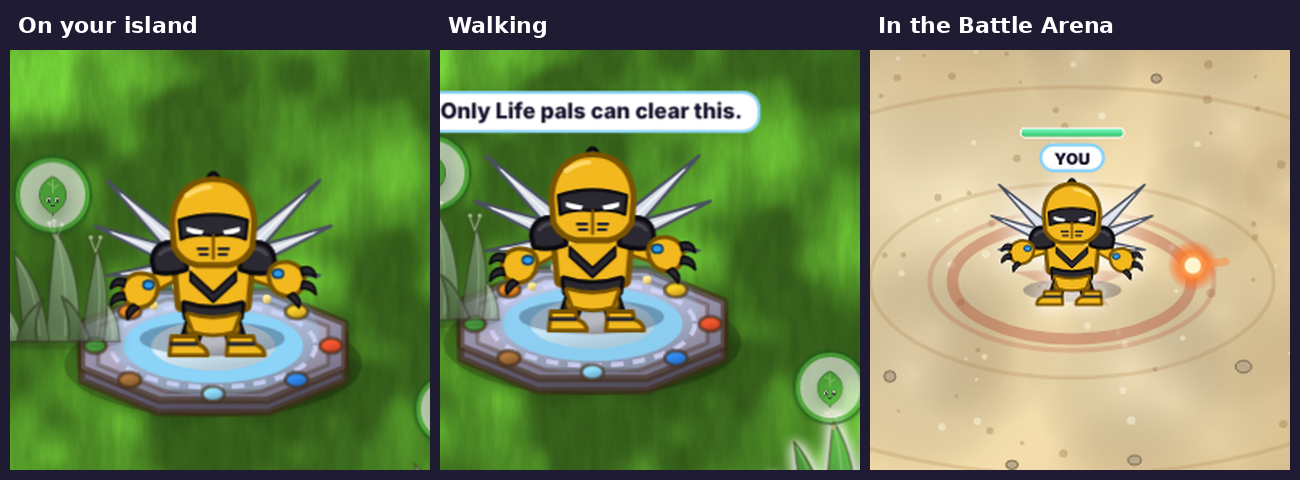
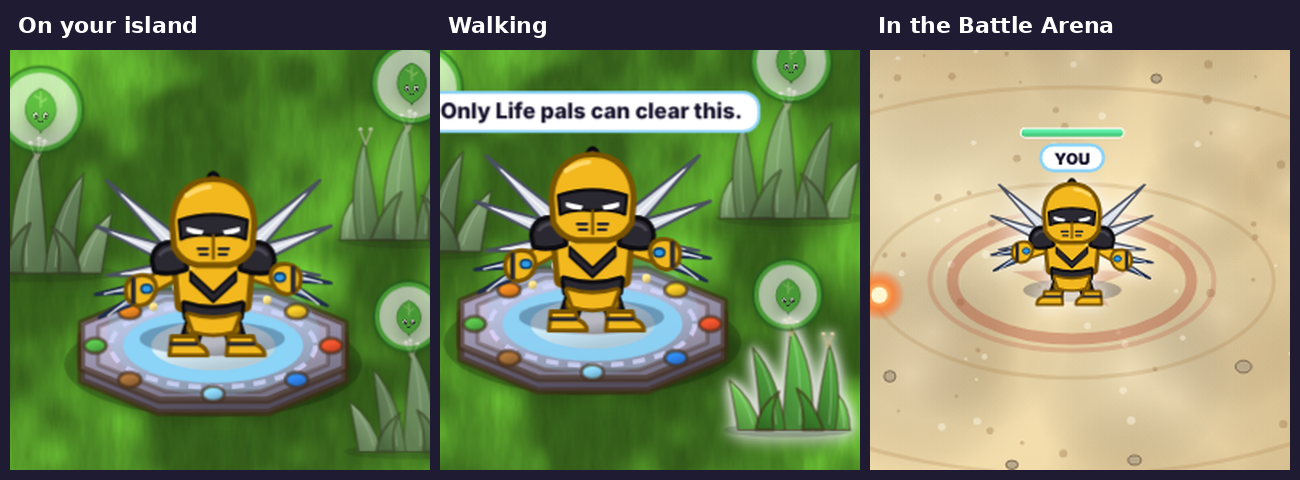
Preview: winged warrior with two blades out of each glove
Claude-Session: https://claude.ai/code/session_01VLdLc5ictpYJybhtPWKJ3B

diff --git a/src/previews/sentinel.js b/src/previews/sentinel.js
@@ -1,14 +1,17 @@
 /* Winged warrior (no name yet): the owner's armoured warrior in yellow and black: a knight helmet with a black visor and white eye
    slits, a black crest, a yellow breastplate with a black chevron, black shoulder guards, metal blade-feather wings, solid armour
-   plates (no stripes), and big yellow claw gauntlets with blue gems (Air, melee, Giant). (preview only) */
-var SN = { Y: '#f2b81e', YD: '#7a5400', YL: '#ffd968', K: '#2a2830', KD: '#0c0b10', KL: '#4a4652', BL: '#2f9be8', BLD: '#0e3f6a', W: '#d9dee8', WD: '#4a5060' };
-function snClaw(x, y, m){      /* a big yellow claw gauntlet with black claw tips and a blue gem; m = 1 claws right, -1 left */
+   plates (no stripes), and yellow gauntlets with blue gems and two sharp blades sticking out of each (Air, melee, Giant). (preview only) */
+var SN = { Y: '#f2b81e', YD: '#7a5400', YL: '#ffd968', K: '#2a2830', KD: '#0c0b10', KL: '#4a4652', BL: '#2f9be8', BLD: '#0e3f6a', W: '#d9dee8', WD: '#4a5060', ST: '#8fa8d0', STD: '#1e2c4a' };
+function snClaw(x, y, m){      /* a yellow gauntlet with two long sharp blades sticking out past the knuckles; m = 1 blades right, -1 left */
   var S = SN; function X(v){ return x + v * m; }
-  return '<path d="M' + X(-9) + ' ' + (y - 4) + 'Q' + X(-8) + ' ' + (y - 12) + ' ' + X(2) + ' ' + (y - 11) + 'Q' + X(10) + ' ' + (y - 9) + ' ' + X(10) + ' ' + (y - 1) + 'Q' + X(9) + ' ' + (y + 6) + ' ' + X(1) + ' ' + (y + 7) + 'Q' + X(-8) + ' ' + (y + 6) + ' ' + X(-9) + ' ' + (y - 4) + 'Z" fill="' + S.Y + '" stroke="' + S.YD + '" stroke-width="2.2" stroke-linejoin="round"/>' +
-    '<ellipse cx="' + X(-4) + '" cy="' + (y - 5) + '" rx="2.8" ry="2.2" fill="' + S.BL + '" stroke="' + S.BLD + '" stroke-width="1.2"/>' +
-    '<path d="M' + X(8) + ' ' + (y - 8) + 'Q' + X(15) + ' ' + (y - 10) + ' ' + X(16) + ' ' + (y - 3) + 'Q' + X(12) + ' ' + (y - 6) + ' ' + X(9) + ' ' + (y - 4) + 'Z' +
-      'M' + X(9) + ' ' + (y - 1) + 'Q' + X(16) + ' ' + (y - 1) + ' ' + X(16) + ' ' + (y + 6) + 'Q' + X(12) + ' ' + (y + 2) + ' ' + X(8) + ' ' + (y + 3) + 'Z' +
-      'M' + X(4) + ' ' + (y + 5) + 'Q' + X(9) + ' ' + (y + 8) + ' ' + X(7) + ' ' + (y + 13) + 'Q' + X(4) + ' ' + (y + 9) + ' ' + X(1) + ' ' + (y + 7) + 'Z" fill="' + S.K + '" stroke="' + S.KD + '" stroke-width="1.2" stroke-linejoin="round"/>';
+  function blade(y0, len, rise){
+    return '<path d="M' + X(4) + ' ' + (y0 - 2.2) + 'L' + X(4 + len) + ' ' + (y0 - rise) + 'L' + X(4) + ' ' + (y0 + 2.2) + 'Z" fill="' + S.ST + '" stroke="' + S.STD + '" stroke-width="1.6" stroke-linejoin="round"/>' +
+      '<path d="M' + X(6) + ' ' + (y0 - 0.6) + 'L' + X(2 + len * 0.85) + ' ' + (y0 - rise * 0.9) + '" stroke="#fff" stroke-width="1" stroke-linecap="round" stroke-opacity=".85"/>';
+  }
+  return blade(y - 3, 20, -3) + blade(y + 3, 18, -9) +
+    '<path d="M' + X(-8) + ' ' + (y - 4) + 'Q' + X(-7) + ' ' + (y - 11) + ' ' + X(1) + ' ' + (y - 10) + 'Q' + X(8) + ' ' + (y - 9) + ' ' + X(8) + ' ' + (y - 2) + 'Q' + X(8) + ' ' + (y + 5) + ' ' + X(1) + ' ' + (y + 6) + 'Q' + X(-7) + ' ' + (y + 5) + ' ' + X(-8) + ' ' + (y - 4) + 'Z" fill="' + S.Y + '" stroke="' + S.YD + '" stroke-width="2.2" stroke-linejoin="round"/>' +
+    '<path d="M' + X(4) + ' ' + (y - 8) + 'V' + (y + 4) + '" stroke="' + S.K + '" stroke-width="2.6" stroke-linecap="round"/>' +
+    '<ellipse cx="' + X(-3) + '" cy="' + (y - 3) + '" rx="2.8" ry="2.2" fill="' + S.BL + '" stroke="' + S.BLD + '" stroke-width="1.2"/>';
 }
 function snArt(){
   var S = SN;
@@ -60,7 +63,7 @@ function snBack(c){
     '<g><g class="pump pR">' + arm(70, 60, 82, 64) + '</g></g></svg>';
 }
 function snFront(c){
-  /* the front claw gauntlet sits in the weapon group so it slashes when he hits */
+  /* the front gauntlet and its blades sit in the weapon group so they slash when he hits */
   return '<svg class="limbs" viewBox="0 0 100 100" aria-hidden="true" style="overflow:visible">' +
     '<g><g class="pump pR"><g class="wpn"><g transform="rotate(-18 86 64)">' + snClaw(88, 66, 1) + '</g></g></g></g></svg>';
 }

diff --git a/HANDOFF.md b/HANDOFF.md
@@ -21,7 +21,7 @@ Test version (claude.ai artifact, owner's private test page): https://claude.ai/
 
 **Game rule: no passive health regeneration in any minigame.** Food drops are the only way to heal (Guard Post, Boss Raid, Island Quest). Island Quest used to heal 7%/s after 4 s out of a fight; that was removed. Do not add it to new minigames. Test: `node src/mock2/tqregen.js`.
 
-**Special pals (`c.body`):** hand-drawn bodies picked under "Look" in the New pal form: `eagle` (Sky Eagle, Air, ranged, arm cannon), `wyrm` (Grave Dragon, Undead, ranged, purple lightning shots via `shotLook` / `drawZap`, also sent as 'zap' in arena snapshots and as a flag in quest `Z`), `knight` (Skeleton Knight, Undead, melee, sword and shield), `mecha` (Wheel Bot, the owner's yellow robot on a wheel, Tech, ranged, always Giant), `cyc` (Iron Cyclops, the one-eyed soldier with the all-black helmet, Undead, melee with fists, always Giant), `rogue` (Masked Rogue, slim human girl in leather with a green eye mask and bandana, dark blue ponytail, two daggers, Life, melee, Normal), `md` (Mech Dragon, the owner's green dino-dragon in blue-and-gold mech gear with lens eyes and a wrist blaster, Tech, ranged, Normal), `sh` (Mushroom Guy, the owner's yellow one-eyed mushroom with a red spotted cap and red clawed gloves, holding a little mushroom over his glove, Life, ranged, Normal). `tk` (Technician, the owner's technician girl, Tech, melee, Normal). Drawing: (`tinker.js`, `tinker_preview.png`: red bob, blue armour with gold gear emblems, brown suit, blue bracers and boots with gold bands, big double-ended wrench, tech goggles with brass rims and tinted lenses worn over her eyes). `ar` (Arcane Dragon, an original dark-purple magic dragon: fiery orange crystal horns and tail crystal (fireball colours), dark gold cheek runes, wing tips, toe claws and sparkles, amber slit eyes, starry-night wings, lavender belly, holds a magic fireball; Magic, ranged, Normal; `arcane.js`). The owner asked for the small blue bits to be dark yellow; for the horns and tail crystal they then asked for a fiery yellow like the fireball; they were made fire-orange with yellow glints instead of flat yellow, to stay clear of the famous purple fire dragon (gold horns + gold tail tip). Do not make them yellow/gold. Previewed, not added: a winged armoured warrior in yellow and black (`sentinel.js`, `sentinel_preview.png`: knight helmet with a black visor and white eye slits, black crest, breastplate with a black chevron, black shoulder guards, silver blade-feather wings, solid plates without stripes, claw gauntlets with blue gems; Air, melee, Giant). The owner's bee-warrior drawings were declined as Swarm (Skylanders) look-alikes; keep this one free of bee features (antennae, insect eyes or wings, stripes, stinger). Size is locked too (`giant` in `PAL_BODIES`): the first three are always Normal, the Wheel Bot always Giant; `cleanChar` forces it on load. `PAL_BODIES` holds label, locked element, locked style and the `art` / `back` / `front` drawing functions (from `src/previews/*.js`, now copied into the game). `cleanChar` keeps `body` and forces the element and style to match; `coopChar` sends it to friends. `palFigure` draws the full figure; `palArt` returns the full figure in a `.pbody` wrapper (cards, form preview). Picture upload is hidden for them. The player still names them. Test: `node src/mock2/tbodies.js <outdir>`.
+**Special pals (`c.body`):** hand-drawn bodies picked under "Look" in the New pal form: `eagle` (Sky Eagle, Air, ranged, arm cannon), `wyrm` (Grave Dragon, Undead, ranged, purple lightning shots via `shotLook` / `drawZap`, also sent as 'zap' in arena snapshots and as a flag in quest `Z`), `knight` (Skeleton Knight, Undead, melee, sword and shield), `mecha` (Wheel Bot, the owner's yellow robot on a wheel, Tech, ranged, always Giant), `cyc` (Iron Cyclops, the one-eyed soldier with the all-black helmet, Undead, melee with fists, always Giant), `rogue` (Masked Rogue, slim human girl in leather with a green eye mask and bandana, dark blue ponytail, two daggers, Life, melee, Normal), `md` (Mech Dragon, the owner's green dino-dragon in blue-and-gold mech gear with lens eyes and a wrist blaster, Tech, ranged, Normal), `sh` (Mushroom Guy, the owner's yellow one-eyed mushroom with a red spotted cap and red clawed gloves, holding a little mushroom over his glove, Life, ranged, Normal). `tk` (Technician, the owner's technician girl, Tech, melee, Normal). Drawing: (`tinker.js`, `tinker_preview.png`: red bob, blue armour with gold gear emblems, brown suit, blue bracers and boots with gold bands, big double-ended wrench, tech goggles with brass rims and tinted lenses worn over her eyes). `ar` (Arcane Dragon, an original dark-purple magic dragon: fiery orange crystal horns and tail crystal (fireball colours), dark gold cheek runes, wing tips, toe claws and sparkles, amber slit eyes, starry-night wings, lavender belly, holds a magic fireball; Magic, ranged, Normal; `arcane.js`). The owner asked for the small blue bits to be dark yellow; for the horns and tail crystal they then asked for a fiery yellow like the fireball; they were made fire-orange with yellow glints instead of flat yellow, to stay clear of the famous purple fire dragon (gold horns + gold tail tip). Do not make them yellow/gold. Previewed, not added: a winged armoured warrior in yellow and black (`sentinel.js`, `sentinel_preview.png`: knight helmet with a black visor and white eye slits, black crest, breastplate with a black chevron, black shoulder guards, silver blade-feather wings, solid plates without stripes, yellow gauntlets with blue gems and two blue-steel blades sticking out of each; Air, melee, Giant). The owner's bee-warrior drawings were declined as Swarm (Skylanders) look-alikes; keep this one free of bee features (antennae, insect eyes or wings, stripes, stinger). Size is locked too (`giant` in `PAL_BODIES`): the first three are always Normal, the Wheel Bot always Giant; `cleanChar` forces it on load. `PAL_BODIES` holds label, locked element, locked style and the `art` / `back` / `front` drawing functions (from `src/previews/*.js`, now copied into the game). `cleanChar` keeps `body` and forces the element and style to match; `coopChar` sends it to friends. `palFigure` draws the full figure; `palArt` returns the full figure in a `.pbody` wrapper (cards, form preview). Picture upload is hidden for them. The player still names them. Test: `node src/mock2/tbodies.js <outdir>`.
 
 **Pet facing:** every pet entry in `PETS` must have `face: 'left' | 'right' | 'front'` (which way its picture looks). `petFlip` mirrors it so it always looks where it walks. (This used to be a hand-kept list `PET_LEFT`; the Key Bird was missing from it and walked backwards.) A pet without `face` falls back to guessing from its eye positions and logs a console warning. When adding a pet, set `face` and run `node src/mock2/tpets.js` (must say PASS).
 
